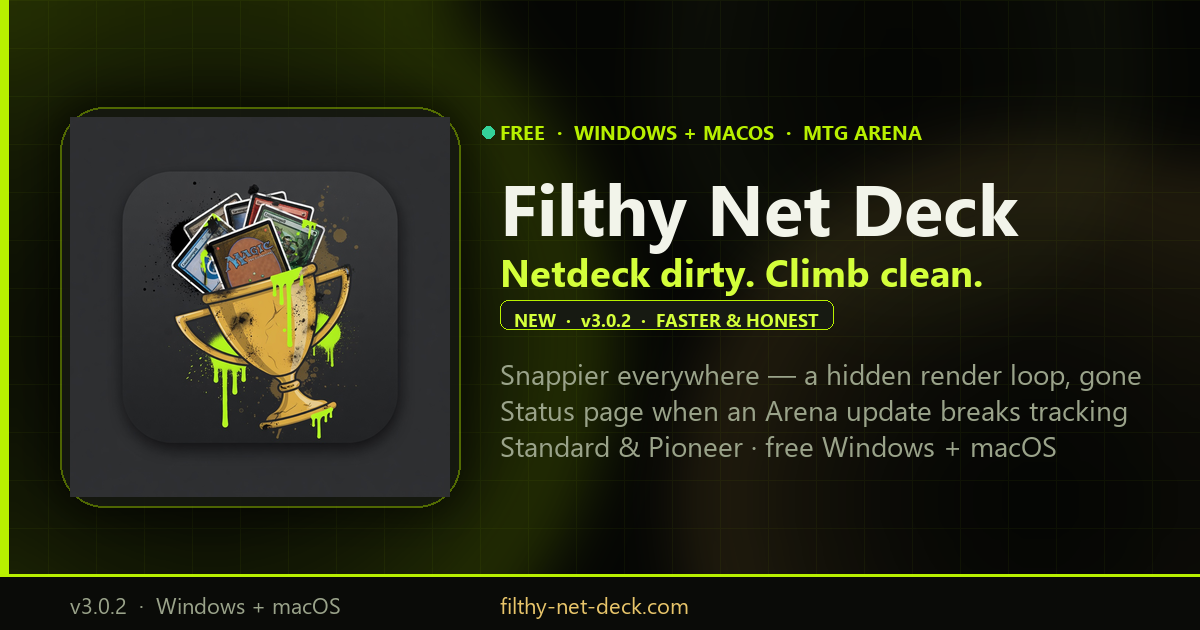
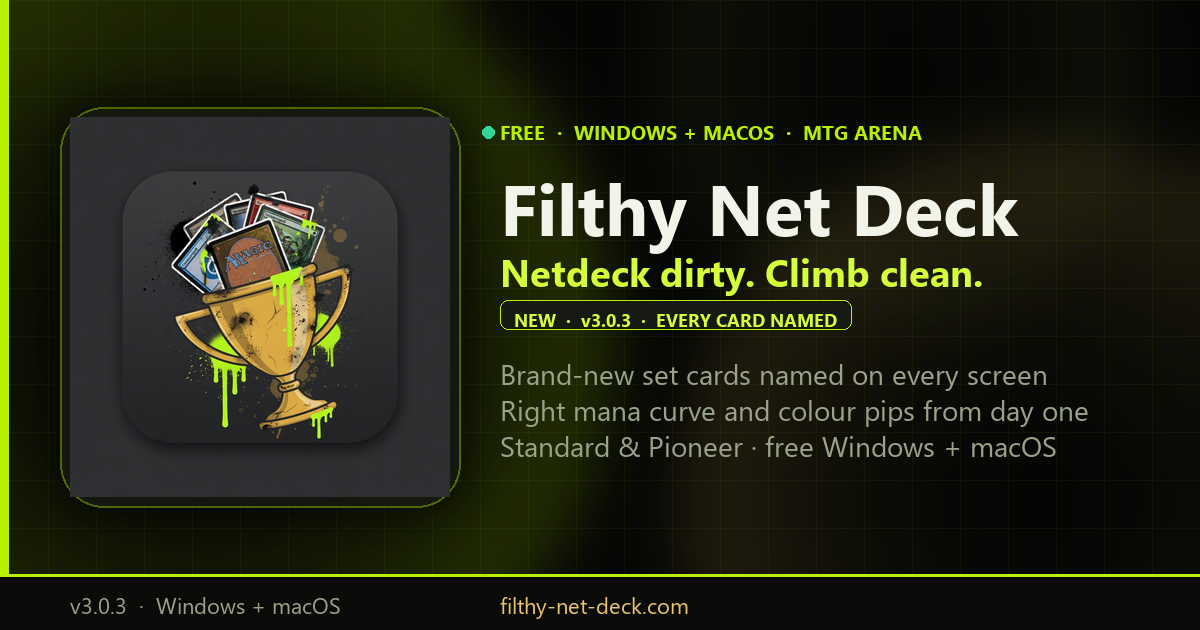
site: OG card for v3.0.3
Badge + feature lines rewritten wholesale, which is the one place a release story
is expected to live. The hero lede and the title/description metas are evergreen
and untouched — this is a patch release, so it adds no marketing copy.

Changed region(s): [[0.4008, 0.573, 0.9558, 0.6937], [0.555, 0.4825, 0.7092, 0.5429]]

diff --git a/website/assets/_gen_og.py b/website/assets/_gen_og.py
@@ -130,7 +130,7 @@ def main() -> None:
     draw.text((tx, ty + 128), "Netdeck dirty. Climb clean.", font=tag_font, fill=ACID_BRIGHT)
 
     # Feature callout badge — bump with each marketed release
-    badge_text = f"NEW  {mid}  v3.0.2  {mid}  FASTER & HONEST"
+    badge_text = f"NEW  {mid}  v3.0.3  {mid}  EVERY CARD NAMED"
     badge_pad_x, badge_pad_y = 14, 8
     bb = draw.textbbox((0, 0), badge_text, font=badge_font)
     bw, bh = bb[2] - bb[0], bb[3] - bb[1]
@@ -145,8 +145,8 @@ def main() -> None:
     draw.text((bx + badge_pad_x, by + badge_pad_y - 1), badge_text, font=badge_font, fill=ACID_BRIGHT)
 
     lines = [
-        "Snappier everywhere — a hidden render loop, gone",
-        "Status page when an Arena update breaks tracking",
+        "Brand-new set cards named on every screen",
+        "Right mana curve and colour pips from day one",
         "Standard & Pioneer · free Windows + macOS",
     ]
     dy = ty + 236
@@ -157,7 +157,7 @@ def main() -> None:
     # Bottom bar
     draw.rectangle([0, H - 56, W, H], fill=(10, 11, 8, 245))
     draw.rectangle([0, H - 56, W, H - 54], fill=(*ACID, 200))
-    draw.text((70, H - 40), "v3.0.2  ·  Windows + macOS", font=small_font, fill=MUTED)
+    draw.text((70, H - 40), "v3.0.3  ·  Windows + macOS", font=small_font, fill=MUTED)
     draw.text((tx, H - 40), "filthy-net-deck.com", font=small_font, fill=GOLD_LIGHT)
 
     final = img.convert("RGB")
